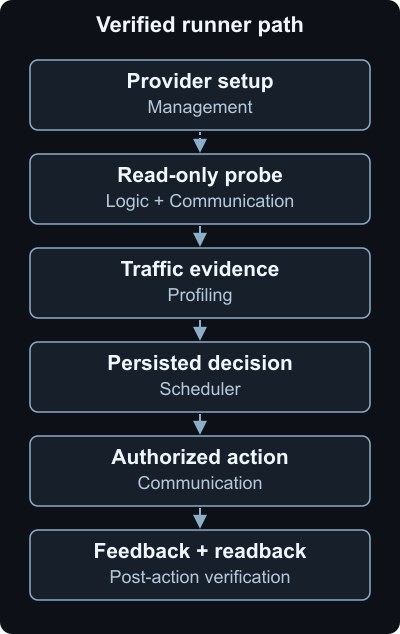
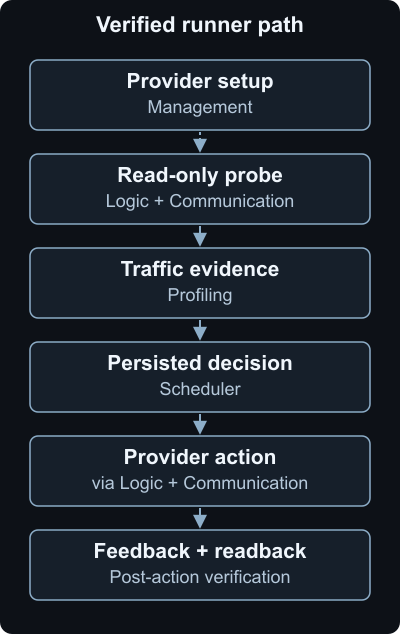
docs: clarify skill background and provider action path

Changed region(s): [[0.24, 0.6893, 0.78, 0.7792]]

diff --git a/README.md b/README.md
@@ -4,16 +4,16 @@ I build Java backend systems for networked automation and conduct independent re
 
 ## Technical focus
 
-My professional skills cover these foundations; the projects below show how I apply them.
+My professional background covers the foundations below. Selected project work follows, with links to its implementation and verification scope.
 
 | Area | Focus |
 | --- | --- |
 | Java & JVM | Object-oriented programming, collections, reflection, class loading, runtime memory, and garbage collection |
 | Concurrency | JUC, thread lifecycle, the Java Memory Model, locks, and concurrent collections |
 | Service design | DDD layering, design patterns, encapsulation, and dependency inversion |
-| Spring & MyBatis | IoC, AOP, bean lifecycle, annotation configuration, transaction propagation, and persistence mapping |
+| Spring & MyBatis | IoC, AOP, bean lifecycle, annotation configuration, transaction propagation, nested transactions, and persistence mapping |
 | MySQL | InnoDB indexes, transactions, locking, and logs |
-| Redis & ZooKeeper | Redis data structures and distributed locks; ZooKeeper data model and consistency |
+| Redis & ZooKeeper | Redis threading model, data structures, and distributed locks; ZooKeeper data model and consistency |
 | Networks & operating systems | Network layers, processes and threads, memory management, and scheduling |
 
 ## Smart Home Edge Computing System
